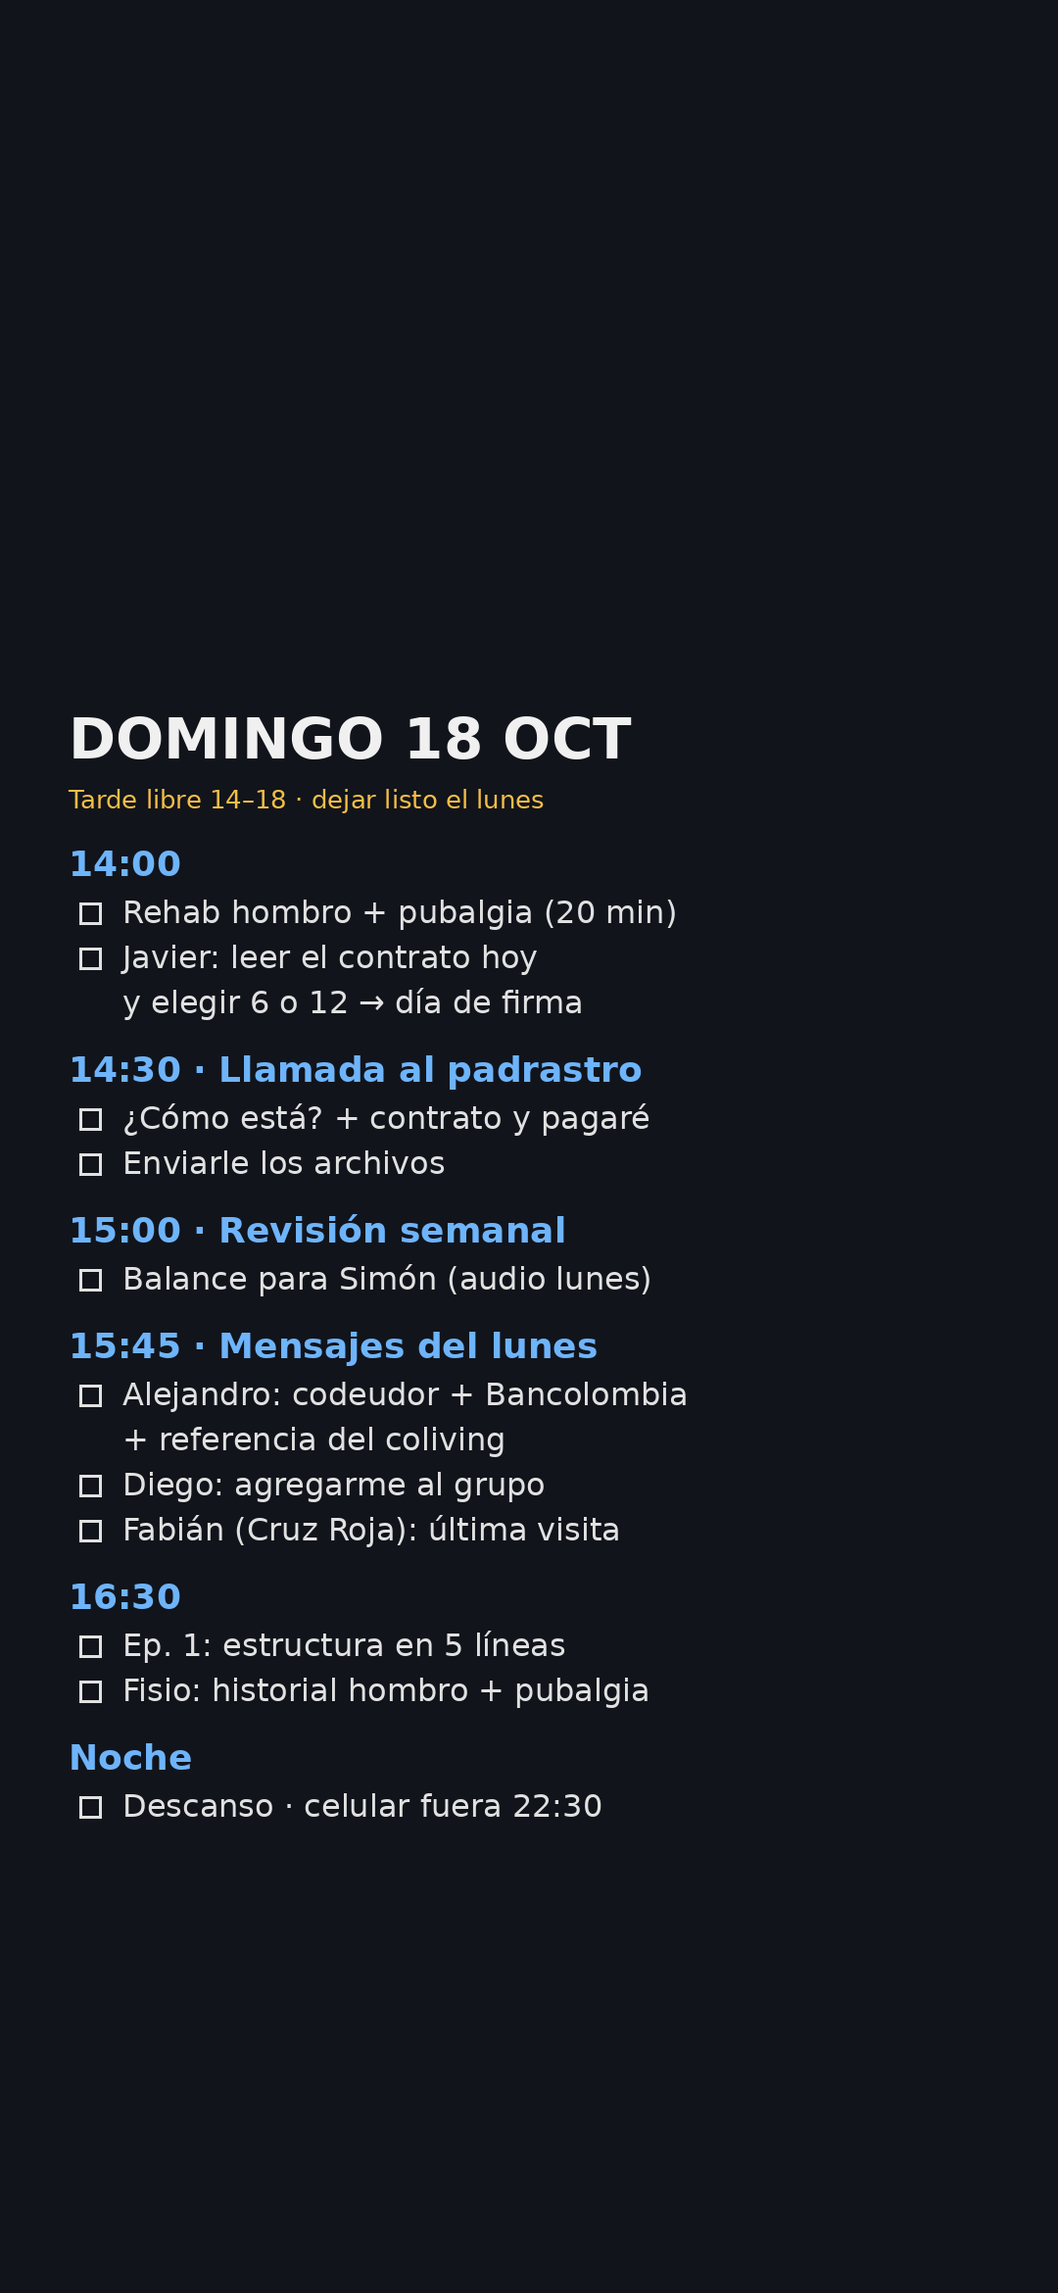
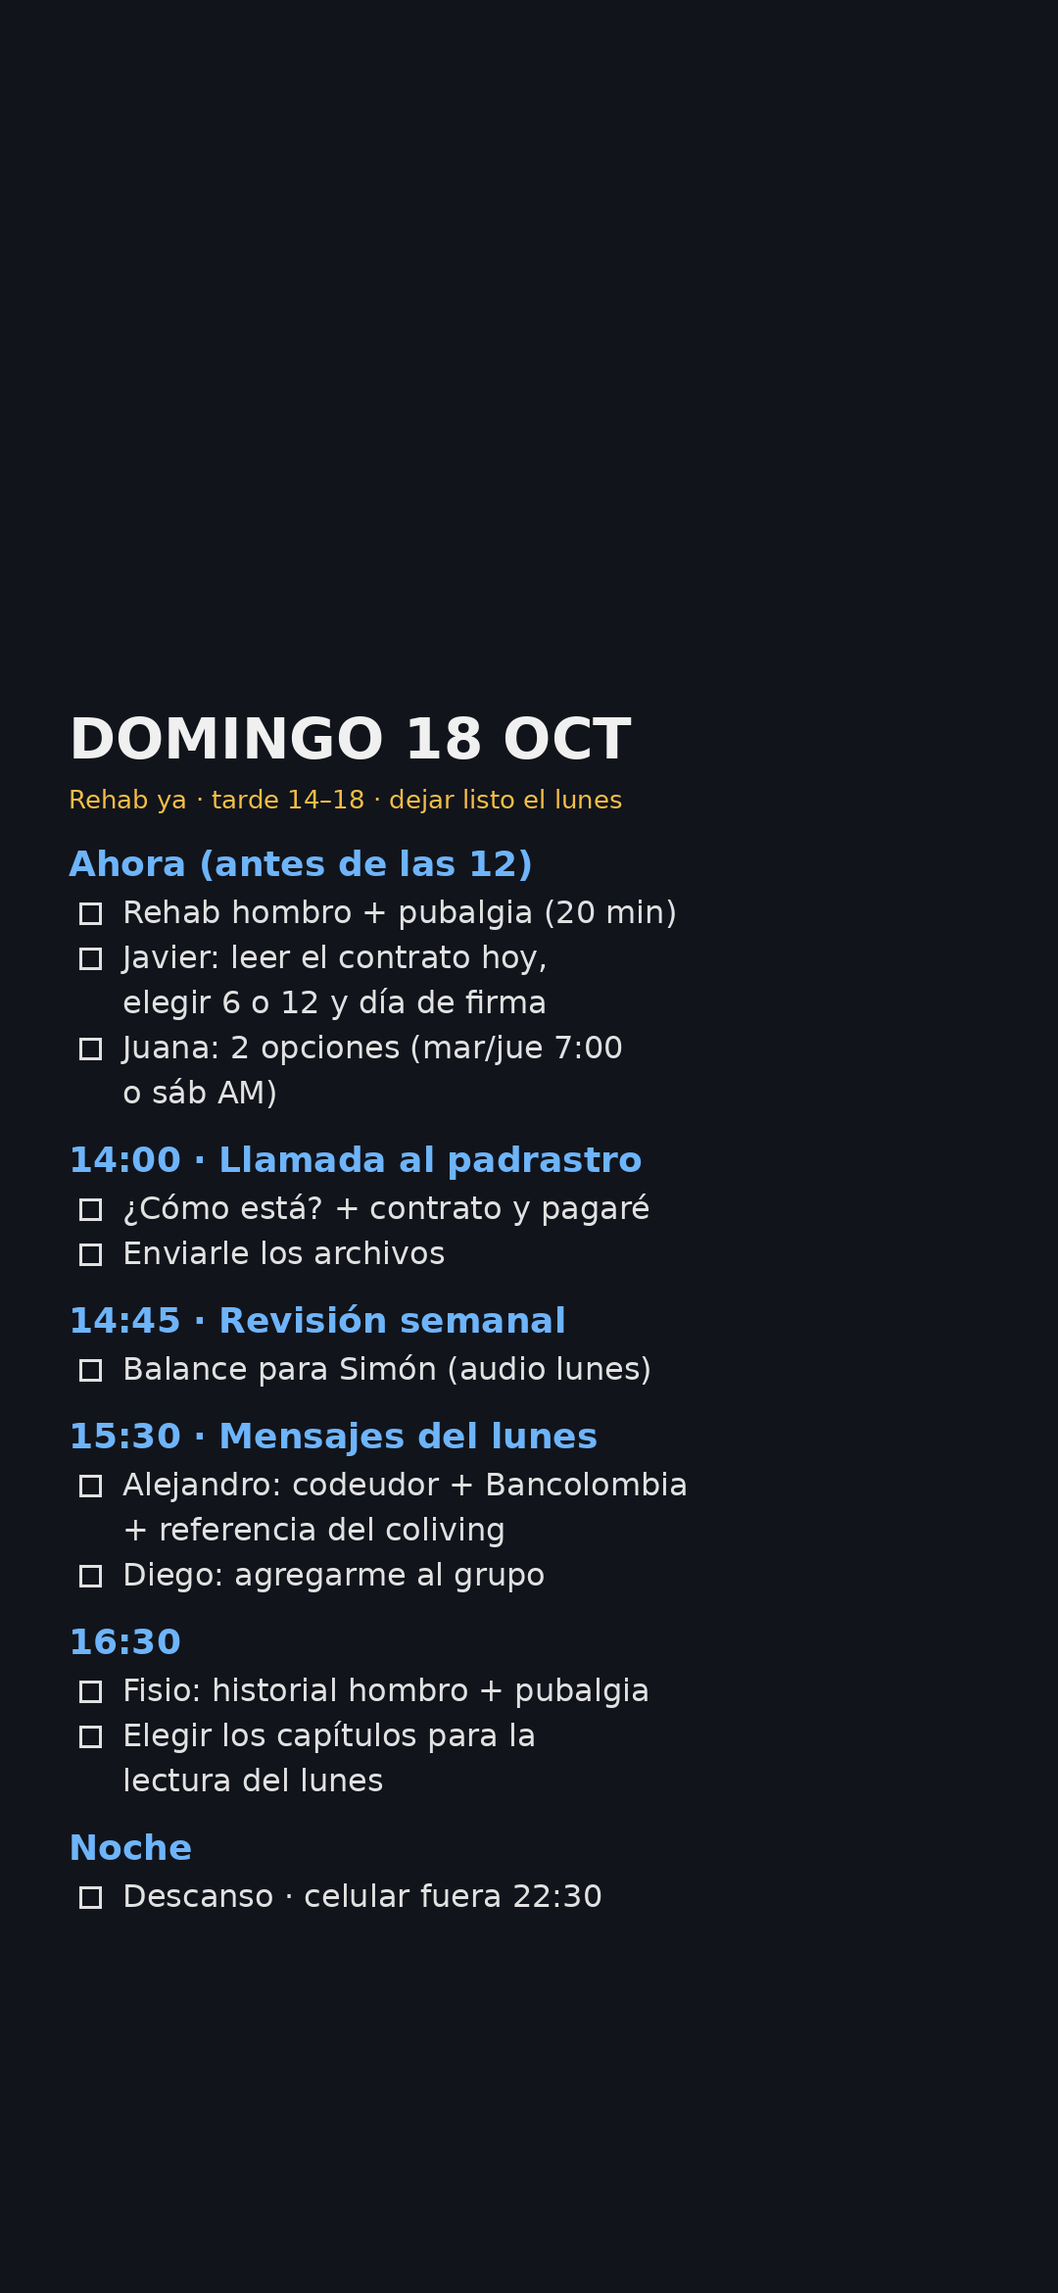
Plan semana 19–25 oct (Ep. 1 como práctica de la charla, fisio lun 19, Hab 2 al 24), cierre semana 13–18, pendientes dom 18 actualizados
Claude-Session: https://claude.ai/code/session_014e4cEhL2WfTnp7vpF1gbZZ

diff --git a/vida/estado_actual.md b/vida/estado_actual.md
@@ -187,24 +187,22 @@
 
 ---
 
-## PLAN SEMANAL VIGENTE — 13 al 18 oct 2026
-*Definido en revisión lun 12 oct (sesión Consejero); ajustado mié 14 noche. Semana de entregas de la Hab 2: la tabla Modo Tenjo no aplica.*
+## PLAN SEMANAL VIGENTE — 19 al 25 oct 2026
+*Definido dom 18 oct (sesión Consejero). Lunes en Tenjo (fisio). El Ep. 1 vuelve como práctica de la charla (mismo tema: el entorno).*
 
-| Día | En La Clarita (≈9:00–16:00) | Noche |
-|---|---|---|
-| **Mar 13** | Recibir · armar · ✅ rehab · contrato de Javier (empezar) · ✅ mensaje al administrador (Diego Amortegui): cita sáb 17 11:00 pedida — **sin respuesta** | ✅ Entreno 19:00 |
-| **Mié 14** | ✅ Recibidas y armadas casi todas las entregas (adelantadas) · ❌ rehab (había tiempo, falló) · ✅ contrato de Javier terminado (`Contrato_Javier_Hab1.docx`, solo local) — enviar para que marque 6 o 12 meses y corregirle lo del reajuste (IPC cada 12 meses, no 15 ene/6%) | — |
-| **Jue 15** | **Sin La Clarita** (no hay entregas). Antes del bus de las 9:00: rehab · contrato + pagaré al celular (PDF por WhatsApp/Drive, no GitHub) · escribir a la fisio (¿recibió el formulario? pedir fecha). En el bus: leer el contrato completo → enviarlo a Javier + aclarar reajuste · enviar plantilla del pagaré al padrastro. **11:00 Juana presencial en Bogotá** (sesión + almuerzo). Tarde: letrero + volantes de Carmen en Canva desde el celular, sobre el boceto de la otra propiedad (máx. 2 h) · confirmar visita sáb con Nath y Amparo. Marketplace 14:00 · 18:00 | Entreno 19:00 |
-| **Vie 16** | Cama de la Hab 2 · instalar el filtro en la pared | Entreno 19:00 |
-| **Sáb 17** | ✅ **Administrador en persona** (fue sin cita; Diego no había respondido) → **charla agendada sáb 15 nov**, $130k día completo · salir a La Clarita a más tardar 13:00 · **15:00 visita Alejandro Barón** (confirmada) · Nath y Amparo: sin respuesta (no se cuenta con ellas) · base cama de la Hab 2 llega hoy (no llegó el vie) · ☐ **Javier firma el contrato** después de las visitas (aún no elige: marca 6 o 12 meses al firmar; copias impresas hoy) | Holgura |
-| **Dom 18** | Libre (guion Ep. 1 solo si apetece) | — |
+| Día | Bloque 8–11 | Resto del día | Noche |
+|---|---|---|---|
+| **Lun 19** (Tenjo) | Lectura: Hábitos Atómicos (diseño del entorno) + Wendy Wood → 3 hallazgos con fuente | Audio balance a Simón · mensajes: Alejandro (codeudor + extractos Bancolombia + referencia del coliving), Diego (agregar al grupo), Juana (2 opciones de horario: mar/jue 7:00 o sáb AM) · **17:00 fisio** (historial hombro + pubalgia) = check-in Ultimate | — |
+| **Mar 20** | **Guion Ep. 1 = primer borrador de la estructura de la charla** | Plazo documentos Alejandro · transferir $130k (cuenta del abuelo) + comprobante a Diego | Entreno 19:00 |
+| **Mié 21** | Grabación Ep. 1 (una toma) | La Clarita: armar base cama Hab 2 + fotos nuevas + actualizar anuncio · decisión Alejandro (referencias + codeudor) · Javier firma si no lo hizo | — |
+| **Jue 22** | Edición Ep. 1 (máx. 3 h) + título y thumbnail | Contrato Hab 2 con datos (revisado por el padrastro) | Entreno 19:00 |
+| **Vie 23** | 3 min de apertura de la charla | Firma Hab 2 + notaría del pagaré | Entreno 19:00 |
+| **Sáb 24** | — | **Entrega Hab 2** (inventario + llaves) · al firmar Hab 2 → compra Hab 3 | Holgura |
+| **Dom 25** | Libre | — | — |
 
-Todos los días: movilidad/rehab · Modo Concentración 8–11 · Marketplace 11/14/18 · si la fisio da fechas, agendar la más cercana. Salir de La Clarita ~16:00 para llegar al entreno.
-Fuera de esta semana (a propósito): Ep. 1 (→ ~24 oct). Letrero y volantes de Carmen: **diseño jue 15** (en la espera de La Clarita); antes, el abuelo confirma con la administración de Carmen si se permite en la baranda; impresión por definir; **la instalación la hace Felipe en persona** (decidido 2026-10-14 — implica otro viaje a Carmen, fecha a definir en la revisión del lunes 19).
+Todos los días: rehab · Marketplace 11/14/18 (seguir agendando visitas hasta que se firme la Hab 2) · celular fuera 22:30. Si la semana se aprieta: se mueve la **edición** del Ep. 1, no el guion ni la lectura. Fuera de esta semana: viaje a Carmen para instalar el letrero (fecha en la revisión del lun 26).
 
-**Compromisos enviados a Simón:** (1) Hab 2 recibida y armada + contrato de Javier firmado el viernes (firma pasa al sáb 17); (2) administrador en persona sáb 17 → fecha de la charla; (3) 3 entrenos + rehab diaria. Ep. 1 se mueve a la semana siguiente. **El balance del lun 12 no se envió**; esta semana ya no hay balance. El **lun 19** va el balance completo con todo lo de la semana.
-
-**Semana siguiente (20–24 oct):** estructura de la charla + 3 min de apertura (2 bloques deep work) · guion/grabación/edición Ep. 1 · imprimir letrero y volantes de Carmen + definir instalación · valoración fisio (si hay fecha).
+**Cierre semana 13–18 oct (compromisos con Simón):** Hab 2 recibida y armada ◐ (falta armar la base cama, la recibió Javier el sáb 17 a las 20 h) · contrato de Javier ❌ (no lo ha leído; se le pide el dom 18 leerlo y elegir 6/12 + día de firma — 3.ª vez que se corre) · fecha de la charla ✅ sáb 15 nov · 3 entrenos ✅ (mar, jue, vie) · rehab ◐ (falló 1 día, mié en La Clarita). Además: sesión Juana ✅ jue 15 (almuerzo; horario nuevo por acordar, el mié 7:00 no le sirve) · fisio respondió → cita lun 19 17:00 en Tenjo · letrero Carmen sin QR y baranda autorizada → listo para imprimir · pagaré + contrato al padrastro: pendiente (llamada dom 18). Balance a Simón: audio lun 19.
 
 ---
 
@@ -244,7 +242,7 @@ Fuera de esta semana (a propósito): Ep. 1 (→ ~24 oct). Letrero y volantes de 
 | **Caja** | Colchón $3M (~$4M con reembolso). Sin margen para gastos no planificados. Alarma <$1.5M. |
 | **Ubicación** | De vuelta en Tenjo (septiembre 2026). Ventana Tenjo abierta — sin excusa estructural para la captación presencial. |
 | **Captación coaching** | 0 conversaciones ejecutadas — cuarta ventana consecutiva (may, jul-ago, sep). Cambio de canal decidido: charlas en salón social → diagnóstico. Modelo de negocio: se decide en Q4 sin esperar al mentor (oferta de entrada corta 8–12 semanas a diseñar antes de la 1.ª charla). |
-| **Canal YouTube / mentoría** | **Estado 2026-10-03:** 1 video publicado en Q3; curso de la comunidad del mentor detenido; sin sesión con el mentor. **Q4:** serie "el regreso" (coach de hábitos que reconstruye su entrenamiento en público), 1 video cada 2 semanas, Ep. 1 antes del 17 oct; curso del mentor en bloque fijo los miércoles; sesión con el mentor al llegar a 3 videos. En Q4 YouTube es práctica, no captación. *Histórico:* guiones de hábitos escritos, primer video grabado y terminado. Comunidad del mentor ($27 USD/mes) prepagada anual, financiada dentro del pagaré familiar. **Blocker técnico — ✅ RESUELTO (2026-08-29):** DaVinci Resolve 21 (versión gratuita) instalado y funcional en Pop!_OS — permisos de GPU (grupos `video`/`render`) y asociación de ícono corregidos. Driver NVIDIA propietario confirmado activo (595.84, RTX 3050 Ti). ffmpeg instalado con script `~/bin/convertir_para_resolve.sh` para convertir clips HEVC/H.265 a DNxHR cuando haga falta. Flujo de grabación definido para ambas cámaras (Samsung S25 Ultra y Sony ZV): H.264, 1080p, 30fps, SDR — formato directamente compatible con Resolve gratis en Linux sin necesidad de comprar Resolve Studio. Decisión tomada: no reinstalar Windows (ni dual boot) para evitar reabrir el vector de distracción que motivó la migración original — se resolvió con ffmpeg dentro del ecosistema Linux. **Segundo blocker técnico — ✅ RESUELTO (2026-09-21):** al actualizar a DaVinci Resolve 21.1, la app abría pero lanzaba "Your GPU memory is full" de forma recurrente. Diagnóstico por log (`~/.local/share/DaVinciResolve/logs/ResolveDebug.txt`): el mensaje era engañoso — la VRAM estaba al 6% (243 MiB de 4096) y Resolve sí usaba la NVIDIA vía CUDA. La causa real era `Failed to register OpenGL object for CUDA interop`, es decir, la incompatibilidad conocida de Resolve con Wayland. Pop!_OS 24.04 con COSMIC es Wayland-only y no traía ninguna sesión X11 instalada. Solución: se instalaron `gnome-session` + `gnome-shell` y se cambió el display manager de `cosmic-greeter` a `gdm3`, habilitando la sesión **GNOME on Xorg**. **Requisito operativo recurrente:** para editar video hay que iniciar sesión en *GNOME on Xorg* desde el selector de gdm3 — en COSMIC, Resolve no funciona. COSMIC queda disponible para el resto del trabajo. **Restricción de hardware para edición (verificada 2026-09-21):** RTX 3050 Ti Laptop con solo 4GB de VRAM (3772 MiB utilizables, y esa misma GPU maneja el display) + 14GB de RAM total. Durante el diagnóstico, Chrome consumía ~4GB en 8 procesos y quedaban 964 MiB libres. Protocolo antes de editar: cerrar Chrome. El margen es estrecho — 1080p con pocos nodos sí, Fusion pesado o timelines 4K no. **Plan Ep. 1 (2026-10-05, ajustado 2026-10-06):** guion del Ep. 1 se corrió de mar 6 a mié 7 AM (8–11, junto con el guion del video 2 si alcanza; si no alcanza, se sacrifica el video 2), ~~grabación dom 11~~ — **el guion no se escribió (ni mié 7 ni en el viaje 8–10)**; **Decisión 2026-10-13: Ep. 1 sale de la semana 13–17 (La Clarita, prioridad 1); nueva fecha ~24 oct.** Grabar dos de una vez porque el montaje y la edición son el paso más costoso. |
+| **Canal YouTube / mentoría** | **Estado 2026-10-03:** 1 video publicado en Q3; curso de la comunidad del mentor detenido; sin sesión con el mentor. **Q4:** serie "el regreso" (coach de hábitos que reconstruye su entrenamiento en público), 1 video cada 2 semanas, Ep. 1 antes del 17 oct; curso del mentor en bloque fijo los miércoles; sesión con el mentor al llegar a 3 videos. En Q4 YouTube es práctica, no captación. *Histórico:* guiones de hábitos escritos, primer video grabado y terminado. Comunidad del mentor ($27 USD/mes) prepagada anual, financiada dentro del pagaré familiar. **Blocker técnico — ✅ RESUELTO (2026-08-29):** DaVinci Resolve 21 (versión gratuita) instalado y funcional en Pop!_OS — permisos de GPU (grupos `video`/`render`) y asociación de ícono corregidos. Driver NVIDIA propietario confirmado activo (595.84, RTX 3050 Ti). ffmpeg instalado con script `~/bin/convertir_para_resolve.sh` para convertir clips HEVC/H.265 a DNxHR cuando haga falta. Flujo de grabación definido para ambas cámaras (Samsung S25 Ultra y Sony ZV): H.264, 1080p, 30fps, SDR — formato directamente compatible con Resolve gratis en Linux sin necesidad de comprar Resolve Studio. Decisión tomada: no reinstalar Windows (ni dual boot) para evitar reabrir el vector de distracción que motivó la migración original — se resolvió con ffmpeg dentro del ecosistema Linux. **Segundo blocker técnico — ✅ RESUELTO (2026-09-21):** al actualizar a DaVinci Resolve 21.1, la app abría pero lanzaba "Your GPU memory is full" de forma recurrente. Diagnóstico por log (`~/.local/share/DaVinciResolve/logs/ResolveDebug.txt`): el mensaje era engañoso — la VRAM estaba al 6% (243 MiB de 4096) y Resolve sí usaba la NVIDIA vía CUDA. La causa real era `Failed to register OpenGL object for CUDA interop`, es decir, la incompatibilidad conocida de Resolve con Wayland. Pop!_OS 24.04 con COSMIC es Wayland-only y no traía ninguna sesión X11 instalada. Solución: se instalaron `gnome-session` + `gnome-shell` y se cambió el display manager de `cosmic-greeter` a `gdm3`, habilitando la sesión **GNOME on Xorg**. **Requisito operativo recurrente:** para editar video hay que iniciar sesión en *GNOME on Xorg* desde el selector de gdm3 — en COSMIC, Resolve no funciona. COSMIC queda disponible para el resto del trabajo. **Restricción de hardware para edición (verificada 2026-09-21):** RTX 3050 Ti Laptop con solo 4GB de VRAM (3772 MiB utilizables, y esa misma GPU maneja el display) + 14GB de RAM total. Durante el diagnóstico, Chrome consumía ~4GB en 8 procesos y quedaban 964 MiB libres. Protocolo antes de editar: cerrar Chrome. El margen es estrecho — 1080p con pocos nodos sí, Fusion pesado o timelines 4K no. **Plan Ep. 1 (2026-10-05, ajustado 2026-10-06):** guion del Ep. 1 se corrió de mar 6 a mié 7 AM (8–11, junto con el guion del video 2 si alcanza; si no alcanza, se sacrifica el video 2), ~~grabación dom 11~~ — **el guion no se escribió (ni mié 7 ni en el viaje 8–10)**; **Decisión 2026-10-13: Ep. 1 sale de la semana 13–17 (La Clarita, prioridad 1); nueva fecha ~24 oct.** **Decisión 2026-10-18:** el Ep. 1 vuelve a la semana 19–25 como **práctica de la charla** — mismo tema (el entorno), el guion es el primer borrador de la estructura de la charla; edición tope 3 h (una toma, cortes simples); lectura enfocada en 3 hallazgos con fuente (Hábitos Atómicos, Wendy Wood, 1 protocolo de Huberman ya aplicado). Grabar dos de una vez porque el montaje y la edición son el paso más costoso. |
 
 ---
 

diff --git a/finanzas/clarita/interesados.md b/finanzas/clarita/interesados.md
@@ -16,7 +16,7 @@
 | Fabián | (recibido) | 2 o 3 | Reprogramación | 2026-10-07 — sigue interesado, espera el documento de su contratación. Se le avisó entrega 1 nov y se le preguntó para cuándo espera el documento | Esperar fecha del documento. Visita lun 12 o mar 13, 16:00 si ya tiene noticias o si ese día hay otra visita | — |
 | Rick | — | 2 o 3 | Calificado | 2026-10-07 — dijo "lo antes posible"; se le preguntó si le sirve desde el 1 nov | Si sí → pieza "casa compartida" (1d). Si no → ❌ | — |
 | Pablo | — (no lo dio) | 2 o 3 | Calificado (sin respuesta) | 2026-10-08 16:42 — recibió casa compartida, fotos = Hab 1, reglas (aceptó), moto $65.000 (aceptó), requisitos + visita lun 12 15:00/16:00. Visto, sin respuesta | Sin follow-up. Si reaparece, retomar desde la hora de visita y pedir WhatsApp | — |
-| Fabián A. (Avianca) | — | 2 | Calificado | 2026-10-10 — vive solo, plazo indefinido ("me tendré que quedar en Bogotá"), quiere mudarse ~24 oct. Sede Avianca a ~15 min (17 carro / 13 moto). Se le dijo $1.400.000 (12 m) y que el de las fotos ya se arrendó | Avisarle que la Hab 2 se entrega desde el 24 oct → piezas 1d → visita | — |
+| Fabián A. (Avianca) | — | 2 | Sin respuesta (2026-10-18) | 2026-10-10 — vive solo, plazo indefinido ("me tendré que quedar en Bogotá"), quiere mudarse ~24 oct. Sede Avianca a ~15 min (17 carro / 13 moto). Se le dijo $1.400.000 (12 m) y que el de las fotos ya se arrendó | Avisarle que la Hab 2 se entrega desde el 24 oct → piezas 1d → visita | — |
 | Alejandro Barón | (recibido) | 2 | Documentos en revisión | **2026-10-17 — visita hecha** (con Ximena, su pareja): les gustó todo; duración por definir (saben la diferencia, la marcan al firmar); visitas/pernoctación no se mencionó. Documentos recibidos el mismo día (cédulas, contrato de Ximena, RUT, extractos). Revisión: Ximena tiene **contrato de aprendizaje SENA** (apoyo ≈1 SMLMV) **hasta el 31 dic 2026** → no cumple el umbral de 3× canon → **codeudor obligatorio**; Alejandro solo envió extractos de Nequi (el grueso entra desde una cuenta Bancolombia no enviada); señales de flujo apretado y uso frecuente de apps de crédito rápido. Detalle de montos solo en la conversación (datos personales). Pendientes de ellos: carta laboral de Ximena + 2 referencias c/u. **Lun 19–20:** pedir codeudor (razón: aprendizaje hasta dic + independiente), extractos Bancolombia de Alejandro (3 meses) y contacto del administrador del coliving actual; preguntar por el ingreso de Ximena después de dic. Si no hay codeudor solvente o la referencia es mala → no firmar. *Antes:* 2026-10-14 — pareja (ella: contrato con el SENA — resultó ser de aprendizaje; él: independiente con RUT de 3 años, 2–3 SMLMV); codeudor con finca raíz. Él vive hace 4–5 meses en un coliving en Minuto de Dios (se muda para vivir con su pareja). Tienen moto ($65.000). Recibieron las 4 piezas: casa compartida + fotos = Hab 1, reglas (aceptadas), requisitos (RUT para independiente), zona + link. Precio aclarado: $1.750.000 a 6 m / $1.700.000 a 12 m, ya incluye a la 2ª persona. Les sirve desde el 24 oct. "Nos interesa bastante, la ubicación es perfecta". Preguntaron por la lavandería | Sáb 17, 15:00. Dirección + link por WhatsApp; confirmación vie noche. En visita: referencia del administrador de su coliving actual, ofrecer 12 m, fecha concreta de documentos para firmar antes del 24 | 2026-10-17 |
 | Nath | — | 2 | Visita por agendar | 2026-10-12 — vive sola, 12 meses "súper bien", novio de visita ocasional (pasa más tiempo donde él); se le explicó pernoctación $10.000/noche (sin mencionar 2 ocupantes). Le sirve noviembre. Trabaja desde Pitalito esta semana; pidió ver el sábado → se le dijo sáb 17 en la tarde y se le preguntó a qué se dedica (exp. 3) | Piezas 1d durante la semana → hora sáb 17 (15:00) → confirmación vie noche | 2026-10-17 |
 | Amparo | — | 2 | Calificado | 2026-10-12 — pidió ver y dirección exacta. Se le envió 1b + zona + visitas sáb 17 en la tarde | Si responde: piezas 1d → hora sáb 17 (16:00 si Nath toma 15:00) | 2026-10-17 |

diff --git a/cimientos/CAPTACION.md b/cimientos/CAPTACION.md
@@ -68,6 +68,7 @@ Al final de la charla se ofrece la sesión diagnóstico gratuita como continuaci
 - **Uso del día completo (por decidir):** propuesta del Consejero — una charla + sesiones diagnóstico esa misma tarde en el salón (se agenda en caliente); alternativa: la misma charla dos veces (10:00 y 16:00) si muchos no pueden a una hora. Descartado: dos charlas de temas distintos (divide un público de 10–15 y duplica la preparación de la primera charla).
 - **Interactividad:** 1–2 preguntas en vivo por link (Google Form / Mentimeter); el mismo formulario recoge nombre y WhatsApp para el diagnóstico. Alternativa análoga (mano alzada) por si falla la señal o para los mayores. No debe comerse tiempo de preparación del contenido.
 - **Newsletter: aplazada.** Compite con YouTube (Ep. 1 ya se corrió 3 veces) y no pasa el filtro Q4; si se hace, solo lo vivido (filtro de conocimiento encarnado), no resúmenes de libros. En la charla se recogen contactos de quien quiera "recibir más" → un único mensaje de seguimiento (resumen + 1 herramienta) para medir interés antes de comprometer una cadencia. Las notas de ideas para no olvidarlas: privadas, desde ya.
+- **Ep. 1 = ensayo de la charla (2026-10-18):** el guion del Ep. 1 de YouTube es el primer borrador de la estructura de la charla (mismo tema). Fuentes: Hábitos Atómicos (diseño del entorno), *Good Habits, Bad Habits* de Wendy Wood (investigación de hábitos y contexto; estudio de Thorndike sobre la cafetería como ejemplo), 1 protocolo de Huberman ya aplicado por Felipe. Regla: la historia es de Felipe, la ciencia la respalda. Hablarle a la cámara no reemplaza los 2 ensayos con público (10–14 nov).
 - **Embudo esperado (supuesto a validar):** 10–15 asistentes → 2–3 diagnósticos → ~1 cliente por charla.
 
 ---
